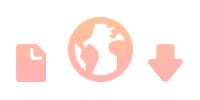
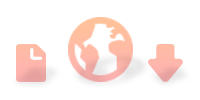
Optimized images & added QR code & new background from subtlepatterns.com

Changed region(s): [[0.12, 0.72, 0.21, 0.81], [0.81, 0.72, 0.9, 0.81], [0.63, 0.69, 0.69, 0.75]]

diff --git a/public/css/style.less b/public/css/style.less
@@ -9,7 +9,7 @@ section, article, footer {
 
 body {
     background-color: #f0f0f0;
-    background-image: url('../img/bg.gif');
+    background-image: url('../img/bg.png');
     
     header {
         .linear-gradient(top, rgb(198,90,88) 0%, rgb(187,56,52) 50%);
@@ -113,7 +113,7 @@ body {
                 padding: 0;
             }
             .drop-inner {
-                background: rgba(0,0,0,0.05);
+                background: url(../img/noise.png);
                 .box-shadow(inset 1px 1px 1px rgba(0,0,0,0.2), 1px 1px 1px rgba(255,255,255,1));
                 padding-top: 50px;
                 .border-radius(5px);
@@ -149,6 +149,13 @@ body {
                     .box-shadow(inset 1px 1px 1px rgba(0,0,0,0.2), 1px 1px 1px rgba(255,255,255,0.25), 0px 0px 15px rgba(0,0,0,0.25));
                     font: 20px 'Nova Flat';
                     color: white;
+                    z-index: 100;
+                }
+                .qrcode {
+                    position: relative;
+                    display: block;
+                    margin: 20px auto;
+                    .box-shadow(inset 1px 1px 1px rgba(0,0,0,0.2), 1px 1px 1px rgba(255,255,255,0.25), 0px 0px 15px rgba(0,0,0,0.25));
                     z-index: 100;
                 }
                 .thanks, .done, .abort {

diff --git a/public/index.html b/public/index.html
@@ -9,6 +9,9 @@
         <meta itemprop="name" content="DropDaFile">
         <meta itemprop="description" content="Streaming file transfer made easy">
         <meta itemprop="image" content="http://dropdafile.com/img/logo.png">
+        <meta property="fb:admins" content="100000335626436" />
+        <meta property="og:url" content="http://dropdafile.com/">
+        <meta property="og:type" content="website">
         <meta property="og:title" content="DropDaFile" />
         <meta property="og:description" content="Streaming file transfer made easy" />
         <meta property="og:image" content="http://dropdafile.com/img/logo_big.png" />
@@ -52,6 +55,7 @@
                     <p class="abort" style="display: none">Connection aborted<br/>on the remote side</p>
                     <p class="thanks" style="display: none">Enjoy,<br/>You are downloading Like a Sir.</p>
                     <input type="text" class="link" style="display: none"></input>
+                    <img class="qrcode" src="" style="display: none" />
                     <div class="progress" style="display: none">
                         <div class="progress-bar" data-time="0%" style="width: 0px"></div>
                     </div>

diff --git a/public/js/base.js b/public/js/base.js
@@ -76,6 +76,7 @@ var Upload = {
                 this.select();
             });
             $('.link').val('http://dropdafile.com/' + id).show();
+            $('.qrcode').attr('src', 'http://chart.googleapis.com/chart?chs=200x200&cht=qr&chl=' + encodeURIComponent(id)).show();
             $('.lepel').show().css({opacity: 1});
         }
         var data = {
@@ -96,7 +97,7 @@ var Upload = {
     },
 
     sendFile: function(file, id) {
-        $('.link,.lelink,.useonce').hide();
+        $('.link,.qrcode,.lelink,.useonce').hide();
         $('.progress,.wait').show();
         $('.steps li:eq(2)').removeClass('active');
         $('.steps li:eq(3)').addClass('active');
